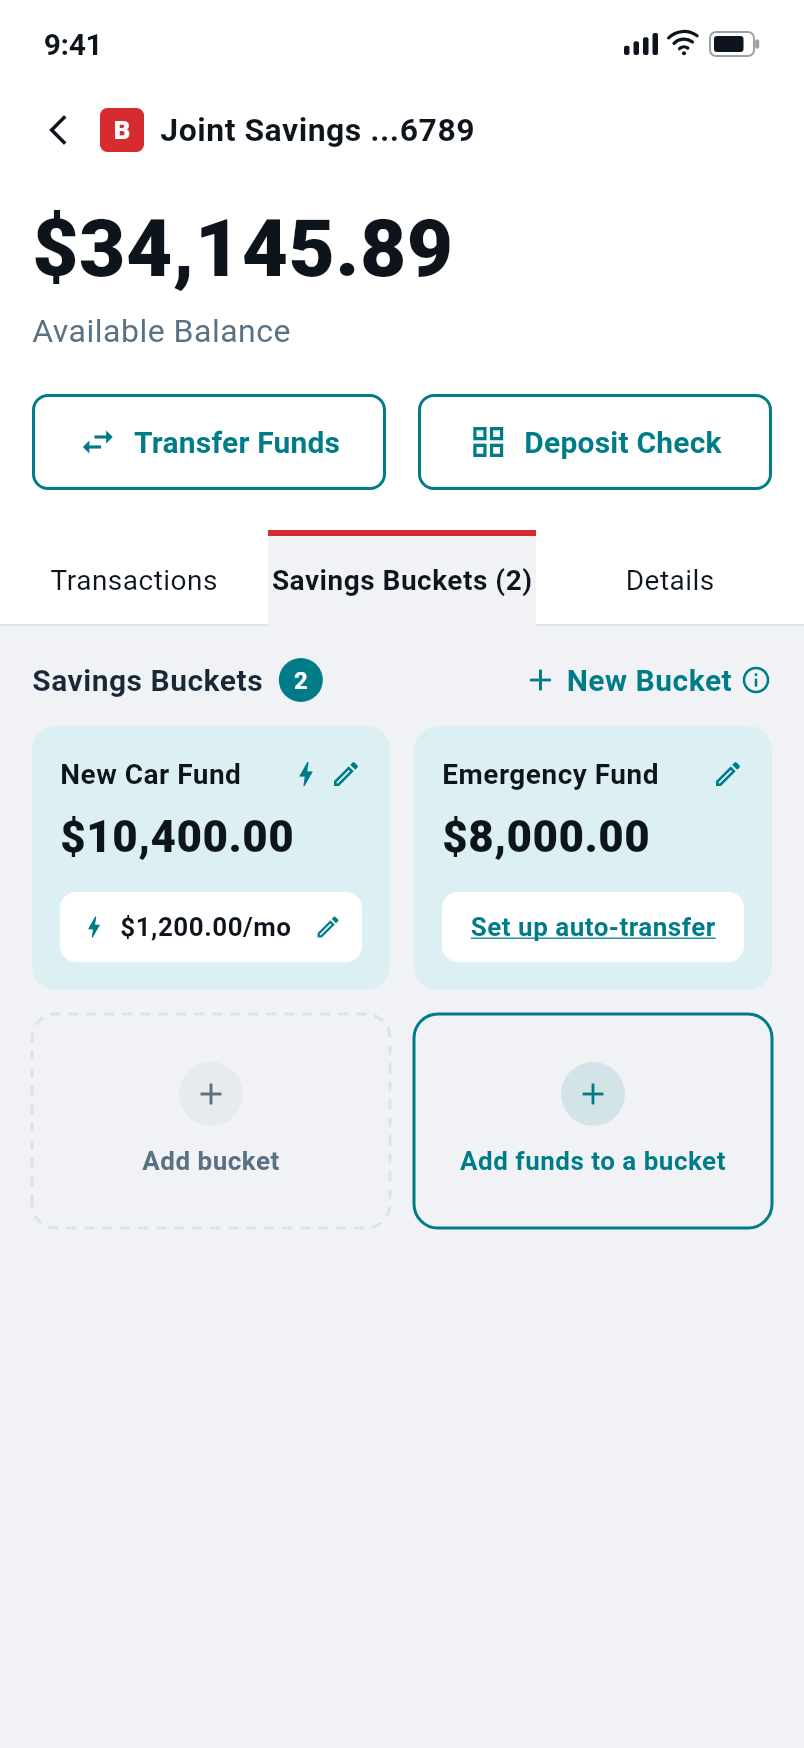
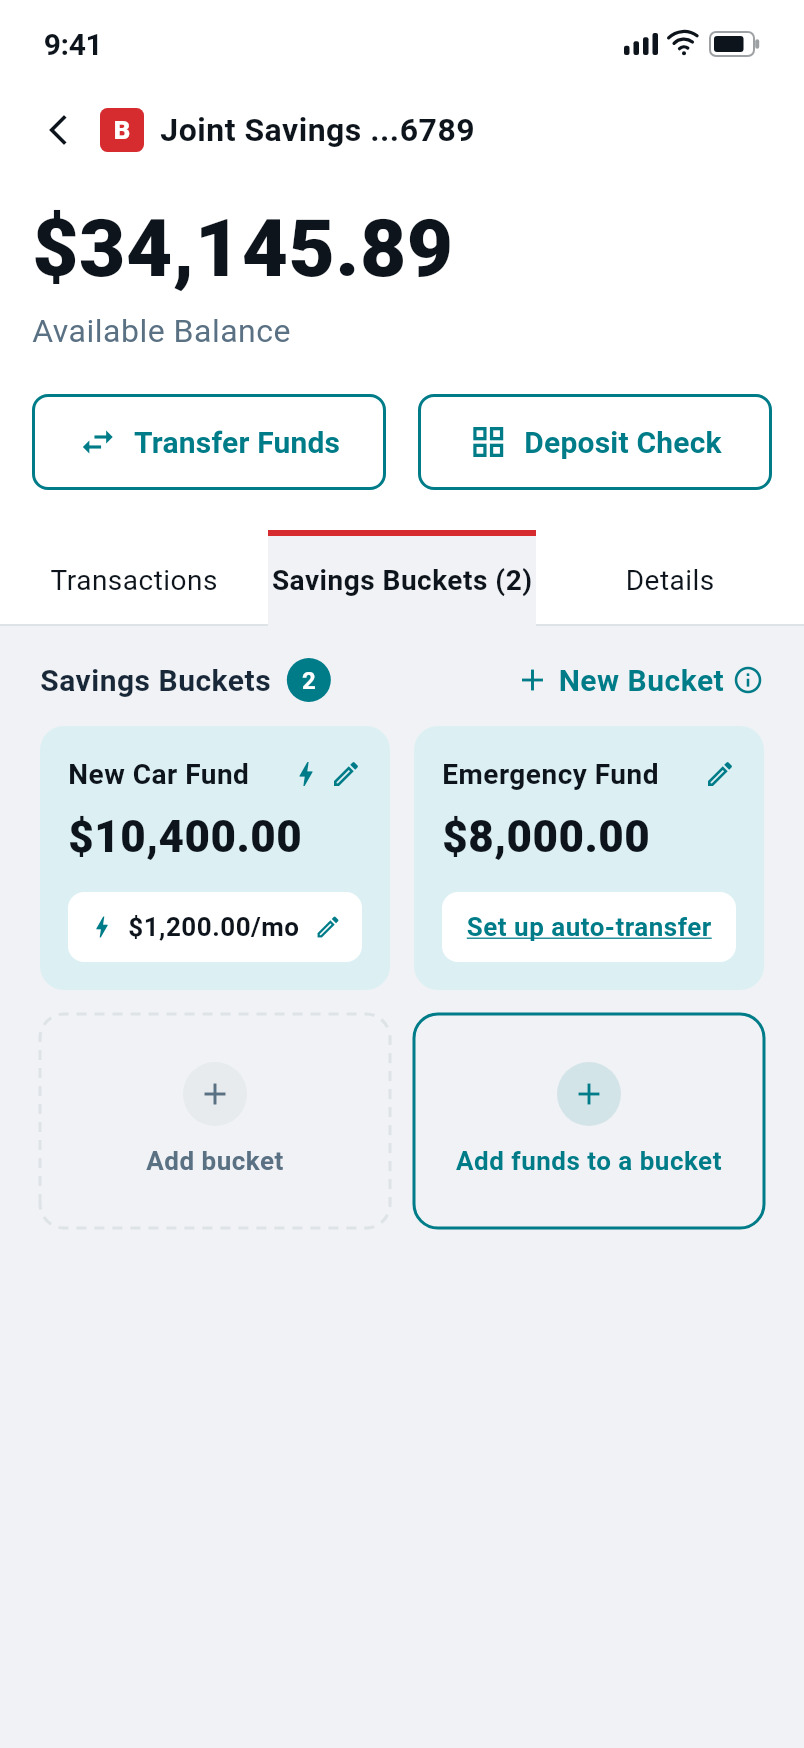
Pad savings buckets tab; confirmation step for 'Just saving up'
- Savings Buckets tab now uses 20px horizontal padding (was 16) so the
  cards aren't squished.
- Choosing 'Just saving up' in Add Bucket now leads to a confirmation
  ('Confirm your bucket') instead of the Saving details form; the
  created jar has no target, contribution or auto-transfer.

https://claude.ai/code/session_01NuCKxaSF8m2VXGLc8nwLxh

diff --git a/lib/screens/add_bucket_sheet.dart b/lib/screens/add_bucket_sheet.dart
@@ -8,9 +8,14 @@ import '../theme/app_theme.dart';
 /// date, auto-transfer and contribution. Returns the created
 /// [SavingsBucket], or null if cancelled.
 class AddBucketSheet extends StatefulWidget {
-  const AddBucketSheet({super.key, this.initialStep = 0});
+  const AddBucketSheet({
+    super.key,
+    this.initialStep = 0,
+    this.initialJustSavingUp = false,
+  });
 
   final int initialStep;
+  final bool initialJustSavingUp;
 
   static Future<SavingsBucket?> show(BuildContext context) {
     return showModalBottomSheet<SavingsBucket>(
@@ -47,7 +52,8 @@ class _AddBucketSheetState extends State<AddBucketSheet> {
   final TextEditingController _contribution =
       TextEditingController(text: '\$1,200');
   int _emoji = 0;
-  _SaveType _saveType = _SaveType.target;
+  late _SaveType _saveType =
+      widget.initialJustSavingUp ? _SaveType.savingUp : _SaveType.target;
   int? _targetDate = 1; // 6 mo
   bool _autoTransfer = true;
   bool _monthly = true;
@@ -69,8 +75,8 @@ class _AddBucketSheetState extends State<AddBucketSheet> {
       saved: 0,
       goal: isTarget ? 50000 : null,
       emoji: _emojis[_emoji],
-      autoTransfer: _autoTransfer,
-      monthlyContribution: monthly,
+      autoTransfer: isTarget && _autoTransfer,
+      monthlyContribution: isTarget ? monthly : null,
       daysLeft: isTarget && _targetDate != null
           ? '${_targetDays[_targetDate!]} days left'
           : null,
@@ -106,7 +112,11 @@ class _AddBucketSheetState extends State<AddBucketSheet> {
           const SizedBox(height: 16),
           _Header(
             step: _step,
-            title: _step == 0 ? 'Set up your bucket' : 'Saving details',
+            title: _step == 0
+                ? 'Set up your bucket'
+                : (_saveType == _SaveType.target
+                    ? 'Saving details'
+                    : 'Confirm your bucket'),
             onClose: () => Navigator.of(context).maybePop(),
           ),
           const Divider(height: 24),
@@ -233,41 +243,90 @@ class _AddBucketSheetState extends State<AddBucketSheet> {
   }
 
   Widget _buildStep2() {
+    if (_saveType == _SaveType.savingUp) return _buildConfirm();
+    return _buildTargetDetails();
+  }
+
+  Widget _bucketBanner() {
     final isTarget = _saveType == _SaveType.target;
+    return Container(
+      padding: const EdgeInsets.symmetric(horizontal: 14, vertical: 12),
+      decoration: BoxDecoration(
+        color: const Color(0xFFEDE7F9),
+        borderRadius: BorderRadius.circular(8),
+      ),
+      child: Row(
+        children: [
+          Text(_emojis[_emoji], style: const TextStyle(fontSize: 18)),
+          const SizedBox(width: 8),
+          Expanded(
+            child: Text(
+              _name.text.trim().isEmpty ? 'New Bucket' : _name.text.trim(),
+              style: const TextStyle(
+                fontSize: 16,
+                fontWeight: FontWeight.w700,
+                color: AppColors.navy,
+              ),
+            ),
+          ),
+          Text(isTarget ? '🎯' : '🫙', style: const TextStyle(fontSize: 14)),
+          const SizedBox(width: 6),
+          Text(
+            isTarget ? 'Target Savings' : 'Saving Up',
+            style: const TextStyle(fontSize: 13, color: AppColors.slate),
+          ),
+        ],
+      ),
+    );
+  }
+
+  Widget _buildConfirm() {
     return ListView(
       shrinkWrap: true,
       padding: const EdgeInsets.fromLTRB(24, 0, 24, 16),
       children: [
+        _bucketBanner(),
+        const SizedBox(height: 24),
         Container(
-          padding: const EdgeInsets.symmetric(horizontal: 14, vertical: 12),
+          padding: const EdgeInsets.all(20),
           decoration: BoxDecoration(
-            color: const Color(0xFFEDE7F9),
-            borderRadius: BorderRadius.circular(8),
+            color: Colors.white,
+            border: Border.all(color: AppColors.borderSubtle),
+            borderRadius: BorderRadius.circular(12),
           ),
-          child: Row(
+          child: const Column(
             children: [
-              Text(_emojis[_emoji], style: const TextStyle(fontSize: 18)),
-              const SizedBox(width: 8),
-              Expanded(
-                child: Text(
-                  _name.text.trim().isEmpty ? 'New Bucket' : _name.text.trim(),
-                  style: const TextStyle(
-                    fontSize: 16,
-                    fontWeight: FontWeight.w700,
-                    color: AppColors.navy,
-                  ),
+              Icon(Icons.savings_outlined, size: 40, color: AppColors.teal),
+              SizedBox(height: 12),
+              Text(
+                'No target — just saving up',
+                textAlign: TextAlign.center,
+                style: TextStyle(
+                  fontSize: 16,
+                  fontWeight: FontWeight.w700,
+                  color: AppColors.navy,
                 ),
               ),
-              Text(isTarget ? '🎯' : '🫙',
-                  style: const TextStyle(fontSize: 14)),
-              const SizedBox(width: 6),
+              SizedBox(height: 6),
               Text(
-                isTarget ? 'Target Savings' : 'Saving Up',
-                style: const TextStyle(fontSize: 13, color: AppColors.slate),
+                "You'll build this bucket at your own pace. You can add a "
+                'goal anytime.',
+                textAlign: TextAlign.center,
+                style: TextStyle(fontSize: 14, color: AppColors.slate),
               ),
             ],
           ),
         ),
+      ],
+    );
+  }
+
+  Widget _buildTargetDetails() {
+    return ListView(
+      shrinkWrap: true,
+      padding: const EdgeInsets.fromLTRB(24, 0, 24, 16),
+      children: [
+        _bucketBanner(),
         const SizedBox(height: 20),
         Row(
           children: [

diff --git a/test/widget_test.dart b/test/widget_test.dart
@@ -4,6 +4,7 @@ import 'package:flutter_test/flutter_test.dart';
 import 'package:mobile_app/data/mock_data.dart';
 import 'package:mobile_app/screens/account_detail_screen.dart';
 import 'package:mobile_app/screens/account_summary_screen.dart';
+import 'package:mobile_app/screens/add_bucket_sheet.dart';
 import 'package:mobile_app/screens/sign_in_screen.dart';
 import 'package:mobile_app/screens/transfer_screen.dart';
 import 'package:mobile_app/screens/welcome_screen.dart';
@@ -93,7 +94,8 @@ void main() {
     await tester.pumpAndSettle();
     expect(find.widgetWithText(TextField, 'Vacation'), findsOneWidget);
 
-    // Continue to step 2, then create the goal bucket.
+    // 'Hit a target amount' is selected by default -> step 2 is the
+    // details form.
     await tester.tap(find.text('Continue'));
     await tester.pumpAndSettle();
     expect(find.text('Saving details'), findsOneWidget);
@@ -112,6 +114,32 @@ void main() {
     expect(find.text('Add Funds'), findsOneWidget);
     expect(find.text('Edit Goal'), findsOneWidget);
     expect(find.text('Remove'), findsOneWidget);
+  });
+
+  testWidgets('"Just saving up" leads to a confirmation, not the form',
+      (tester) async {
+    tester.view.physicalSize = const Size(402, 874);
+    tester.view.devicePixelRatio = 1.0;
+    addTearDown(tester.view.reset);
+
+    await tester.pumpWidget(
+      const MaterialApp(home: Scaffold(body: AddBucketSheet())),
+    );
+    await tester.pumpAndSettle();
+
+    final savingUp = find.text('Just saving up');
+    await tester.scrollUntilVisible(savingUp, 120,
+        scrollable: find.byType(Scrollable).first);
+    await tester.tap(savingUp);
+    await tester.pumpAndSettle();
+    await tester.tap(find.text('Continue'));
+    await tester.pumpAndSettle();
+
+    expect(find.text('Confirm your bucket'), findsOneWidget);
+    expect(find.text('No target — just saving up'), findsOneWidget);
+    // The details form fields are absent.
+    expect(find.text('TARGET DATE'), findsNothing);
+    expect(find.text('CONTRIBUTION'), findsNothing);
   });
 
   testWidgets('tapping a credit card opens the credit card view',

diff --git a/test/screenshots_test.dart b/test/screenshots_test.dart
@@ -102,6 +102,13 @@ void main() {
         child: AddBucketSheet(initialStep: 1),
       ),
     ),
+    'add_bucket_confirm': const Scaffold(
+      backgroundColor: Colors.black54,
+      body: Align(
+        alignment: Alignment.bottomCenter,
+        child: AddBucketSheet(initialStep: 1, initialJustSavingUp: true),
+      ),
+    ),
     'goal_detail': const Scaffold(
       backgroundColor: Colors.black54,
       body: Align(

diff --git a/lib/screens/account_tabs/savings_buckets_tab.dart b/lib/screens/account_tabs/savings_buckets_tab.dart
@@ -42,7 +42,7 @@ class SavingsBucketsTab extends StatelessWidget {
     final rest = buckets.where((b) => !b.isGoal).toList();
 
     return ListView(
-      padding: const EdgeInsets.fromLTRB(16, 16, 16, 24),
+      padding: const EdgeInsets.fromLTRB(20, 16, 20, 24),
       children: [
         Row(
           children: [
